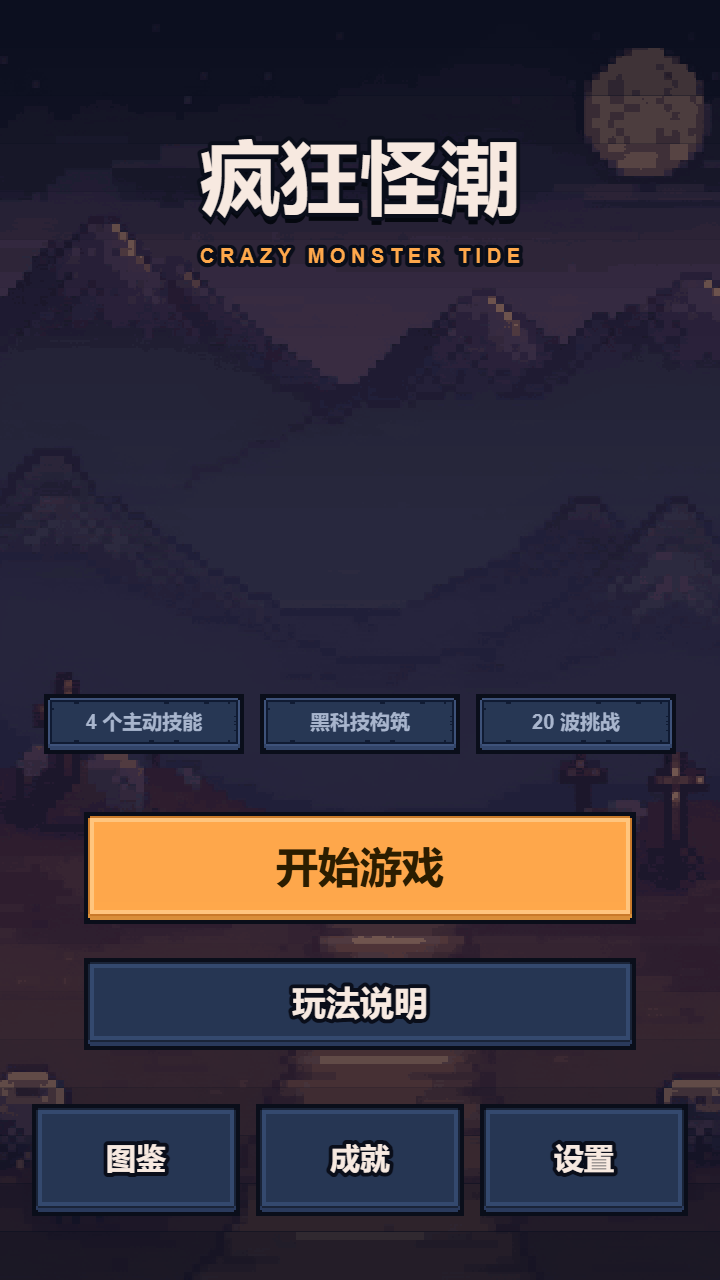
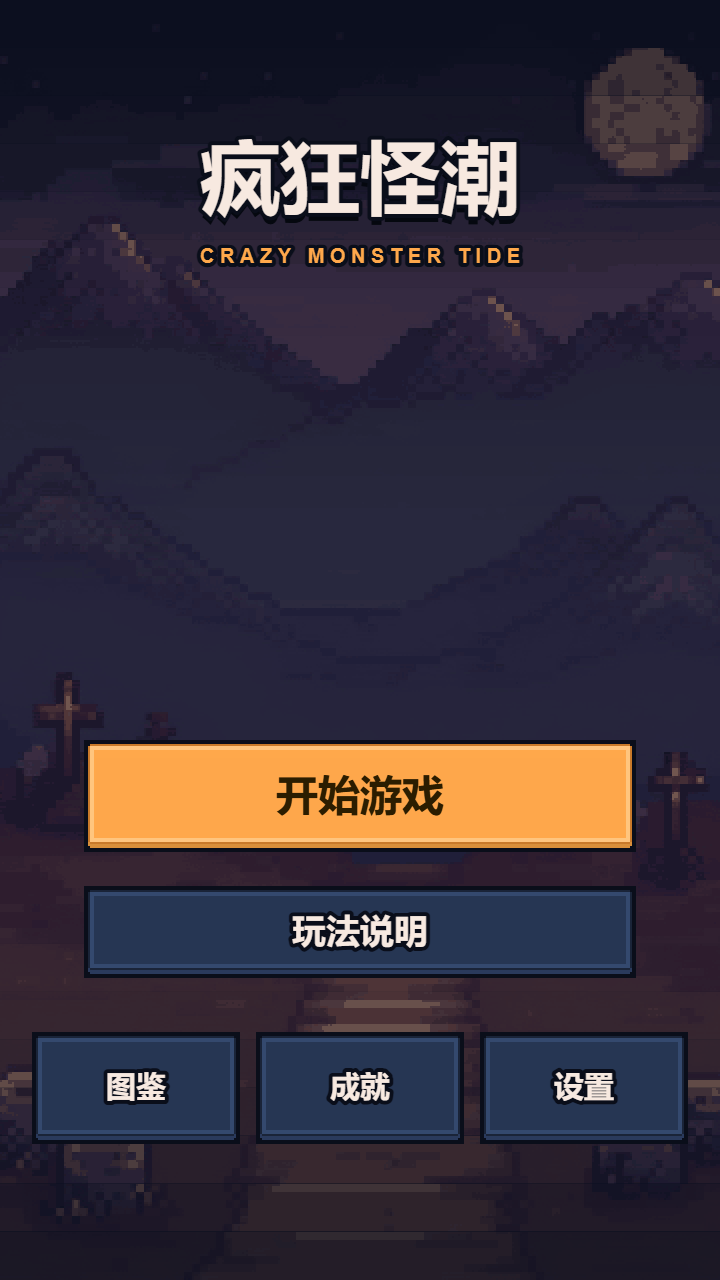
菜单：去掉卖点条 + 上下留白对齐
- 删除主菜单的 3 个卖点信息块（4 个主动技能 / 黑科技构筑 / 20 波挑战）
- 底部动作栈改为「底部留白 = 标题上沿留白」：topGap = S + 40
  640 参考：标题上沿 68 / CTA 398 / 玩法说明 466 / 图鉴·成就·设置 544 / 底部 68
- 三档视口菜单截图已更新

Changed region(s): [[0.0306, 0.5312, 0.9778, 0.9688]]

diff --git a/cocos/assets/scripts/ui/MenuScreens.ts b/cocos/assets/scripts/ui/MenuScreens.ts
@@ -92,22 +92,12 @@ export function buildMenu(parent: Node, seed: number, onStart: () => void, onHow
     { size: 40, color: COL.cream, bold: true, width: 354, outline: true, shadow: true });
   text(root, 0, at2(180, S + 100).y, 'C R A Z Y   M O N S T E R   T I D E',
     { size: 10, color: COL.accent, width: 354, bold: true, outline: true });
-
-  // ── 底部动作栈：固定间距、从底部安全区往上排（640 参考：卖点 356 / CTA 428 / 次按钮 496 / 图标行 574）──
-  const iconRowY = VH - B - 50;
+  // ── 底部动作栈：**底部留白 = 标题上方留白**（用户要求上下呼吸感一致）
+  //    640 参考：标题上沿 68 / CTA 398 / 次按钮 466 / 图标行 544 / 底部留白 68
+  const topGap = S + 40;                 // 标题上沿到屏幕顶的距离
+  const iconRowY = VH - topGap - 28;     // 图标行中心（高 56）
   const subBtnY = iconRowY - 78;
   const ctaY = subBtnY - 68;
-  const chipsY = ctaY - 72;
-
-  // ── 卖点条：3 个信息块（不是按钮，不可点）──
-  const FEATURES = ['4 个主动技能', '黑科技构筑', '20 波挑战'];
-  const CW = 100, CGAP = 8;
-  FEATURES.forEach((label, i) => {
-    const cx = 180 - (CW + CGAP) + i * (CW + CGAP);
-    const c = at2(cx, chipsY);
-    const box = panel(root, c.x, c.y, CW, 30, { art: 'panel_soft' });
-    text(box, 0, 1, label, { size: 10, color: COL.dim, width: CW - 8, bold: true, outline: false });
-  });
 
   // ── CTA：主按钮是全页唯一"橙" ──
   const b1 = at2(180, ctaY);

diff --git a/docs/ui-redesign/ui_visual_m1.md b/docs/ui-redesign/ui_visual_m1.md
@@ -73,6 +73,11 @@
 | 加图鉴 | 新增 **图鉴页**：角色 / 技能 / 道具 / 怪物 四个页签，6 行一页 + 翻页；数据直接读现有 `CHARS/SKILLS/ITEMS/ENEMIES`，怪物名做了中文映射 |
 | 加成就系统 | 新增 **成就页 + 累计统计**：9 个成就（初次远征 / 百人斩 / 千军辟易 / 深入怪潮 / 抵达终点 / 构建成型 / 屠龙者 / 黑科技大师 / 远征成功），进度来自结算累计，存 `localStorage` |
 
+**再追加（同日第二条反馈）**
+- **去掉卖点条**（4 个主动技能 / 黑科技构筑 / 20 波挑战），菜单只剩「标题 → 开始游戏 → 玩法说明 → 图鉴·成就·设置」。
+- **上下留白对齐**：底部动作栈改为「底部留白 = 标题上沿留白（S+40）」——
+  640 参考：标题上沿 68 / CTA 398 / 次按钮 466 / 图标行 544 / 底部留白 68。
+
 **新增文件**
 - `game/Progress.ts`（纯数据形状，可单测）、`engine/Save.ts`（`sys.localStorage` 读写）
 - `game/Achievements.ts`（定义 + 视图 + 解锁判定，纯逻辑）
